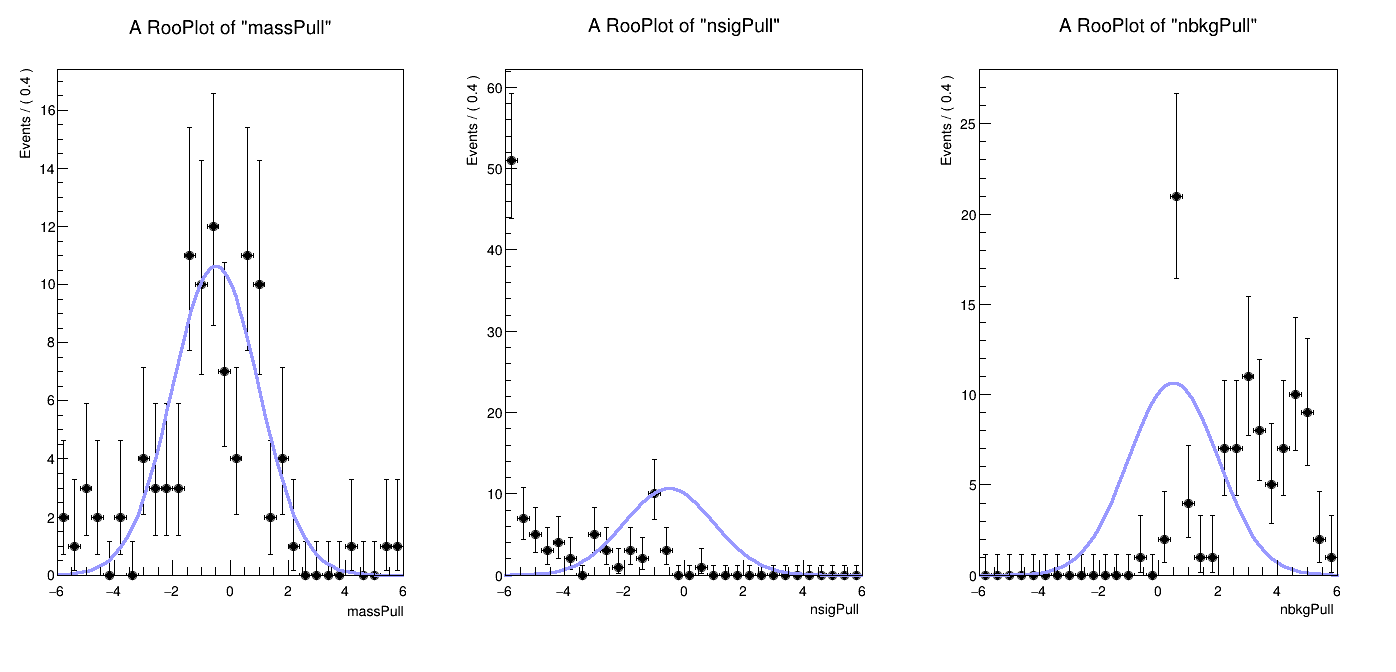
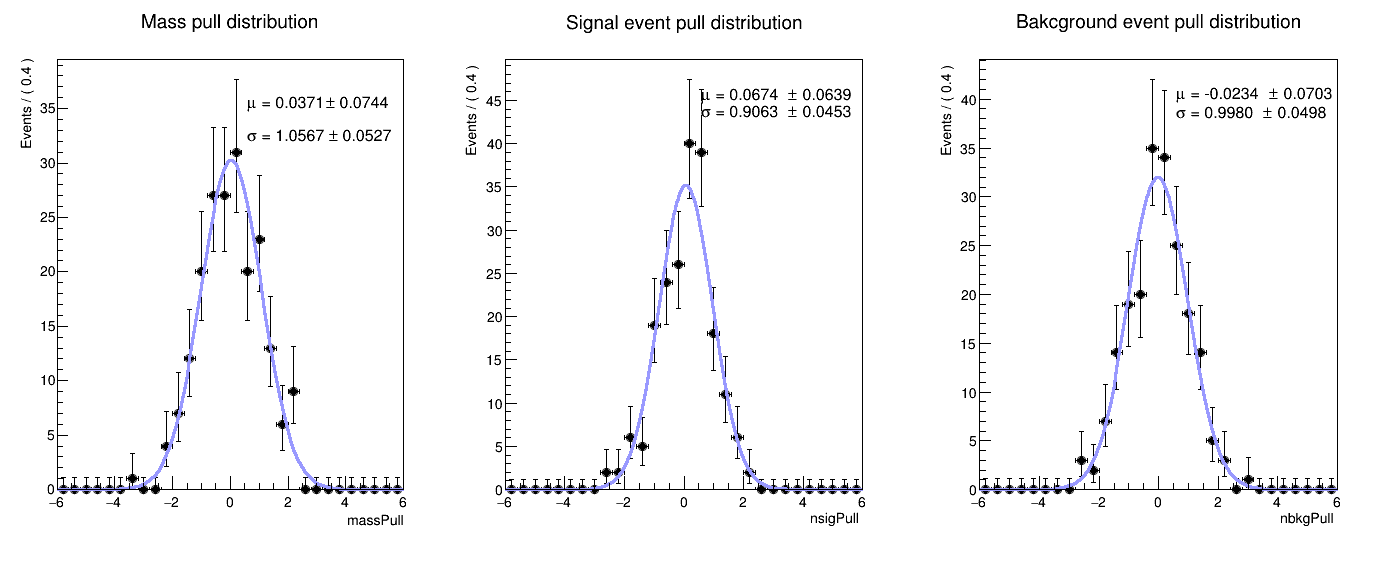
Pull

diff --git a/Documents/Parcial2/CC_1001010600/toyMonteCarlo.C b/Documents/Parcial2/CC_1001010600/toyMonteCarlo.C
@@ -9,7 +9,7 @@
 #include "TAxis.h"
 using namespace RooFit;
 void toyMonteCarlo(){
-    Float_t a0f, a1f, meanf, meanfErr, sigmaf, sigmafErr, nbkgf, nbkgfErr, nsigf, nsigfErr;
+    Float_t a0f, a0fErr, a1f, a1fErr, meanf, meanfErr, sigmaf, sigmafErr, nbkgf, nbkgfErr, nsigf, nsigfErr;
 
     ifstream entrada("fitData.txt");
     if(!entrada) 
@@ -17,25 +17,24 @@ void toyMonteCarlo(){
       cout << "No se pudo abrir el archivo entrada fit pr bins" << endl;
       exit( 1 );
     }
-    entrada >> a0f >> a1f >> meanf >> meanfErr >> sigmaf >> sigmafErr >> nbkgf >> nbkgfErr >> nsigf >> nsigfErr;
+    entrada >> a0f >> a0fErr >> a1f >> a1fErr >> meanf >> meanfErr >> sigmaf >> sigmafErr >> nbkgf >> nbkgfErr >> nsigf >> nsigfErr;
     entrada.close();
 
     RooRealVar m("m", "m", 6.05, 6.5);
 
     //Señal
-    RooRealVar mean("mean", "mean", 6.26, 6.28); mean.setVal(meanf);
-    RooRealVar sigma("sigma", "sigma", 0.005, 0.05); sigma.setVal(sigmaf); sigma.setError(sigmafErr);
+    RooRealVar mean("mean", "mean", 6.26, 6.28); 
+    RooRealVar sigma("sigma", "sigma", 0.005, 0.05); 
     RooGaussian sig("sig", "sig", m, mean, sigma);
 
     //Background
-    RooRealVar a0("a0", "a0", -1,1); a0.setVal(a0f);
-    RooRealVar a1("a1", "a1", -1,1); a1.setVal(a1f);
-
+    RooRealVar a0("a0", "a0", -1,1); 
+    RooRealVar a1("a1", "a1", -1,1); a1.setVal(a1f); 
     RooChebychev bkg("bkg", "bkg", m, RooArgList(a0, a1));
 
     //Numero de eventos
-    RooRealVar nsig("nsig","nsig", 400,800); nsig.setVal(nsigf); nsig.setError(nsigfErr);
-    RooRealVar nbkg("nbkg","nbkg", 400,800); nbkg.setVal(nbkgf); nbkg.setError(nbkgfErr);
+    RooRealVar nsig("nsig","nsig", 400,800); 
+    RooRealVar nbkg("nbkg","nbkg", 400,800); 
     
     //Pdf total
     RooAddPdf model("model","sig+bkg", RooArgList(sig,bkg), RooArgList(nsig,nbkg));
@@ -49,8 +48,16 @@ void toyMonteCarlo(){
     RooDataSet nsigDset("nsigPULL", "nsigPULL", RooArgSet(nsigPull));
     RooDataSet nbkgDset("nbkgPULL", "nbkgPULL", RooArgSet(nbkgPull));
 
-    for(int i=0; i<100; i++){
-      RooRandom::randomGenerator()->SetSeed(3);
+    RooRandom::randomGenerator()->SetSeed(84329746);
+    for(int i=0; i<200; i++){
+
+      mean.setVal(meanf); mean.setError(meanfErr);
+      sigma.setVal(sigmaf); sigma.setError(sigmafErr);
+      a0.setVal(a0f); a0.setError(a0fErr);
+      nsig.setVal(nsigf); nsig.setError(nsigfErr);
+      a1.setVal(a1f); a1.setError(a1fErr);
+      nbkg.setVal(nbkgf); nbkg.setError(nbkgfErr);
+      
       RooMsgService::instance().setGlobalKillBelow(RooFit::FATAL);
       RooMsgService::instance().setSilentMode(kTRUE);
       RooMsgService::instance().setStreamStatus(1,false);
@@ -76,46 +83,70 @@ void toyMonteCarlo(){
       nbkgDset.add(RooArgSet(nbkgPull));
     }
 
-    //Pull masa
+    //Fit Pull masa
     RooRealVar masPullMean("masPullMean", "masPullMean", 0, -.5, .5);
     RooRealVar massPullSigma("massPullSigma", "massPullSigma", 1, 0.5, 1.5);
     RooGaussian massPullGauss("massPullGauss", "massPullGauss", massPull, masPullMean, massPullSigma);
     massPullGauss.fitTo(mpDset, Extended(kTRUE), Save(kTRUE));
 
-    //Pull nsignal
+    //Fit Pull nsignal
     RooRealVar sigPullMean("sigPullMean", "sigPullMean", 0, -.5, .5);
     RooRealVar sigPullSigma("sigPullSigma", "sigPullSigma", 1, 0.5, 1.5);
     RooGaussian sigPullGauss("sigPullGauss", "sigPullGauss", nsigPull, sigPullMean, sigPullSigma);
     sigPullGauss.fitTo(nsigDset, Extended(kTRUE), Save(kTRUE));
 
-    //Pull nsignal
+    //Fit Pull nsignal
     RooRealVar bkgPullMean("bkgPullMean", "bkgPullMean", 0, -.5, .5);
     RooRealVar bkgPullSigma("bkgPullSigma", "bkgPullSigma", 1, 0.5, 1.5);
     RooGaussian bkgPullGauss("bkgPullGauss", "bkgPullGauss", nbkgPull, bkgPullMean, bkgPullSigma);
     bkgPullGauss.fitTo(nbkgDset, Extended(kTRUE), Save(kTRUE));
 
-    TCanvas* c2 = new TCanvas("c2", "c2", 1400, 700);
+    TCanvas* c2 = new TCanvas("c2", "c2", 1400, 600);
     TPad *pad1 = new TPad("p1", "", 0.01,0.05,0.32, 0.99); pad1->Draw();
     TPad *pad2 = new TPad("p2", "", 0.33,0.05,0.65, 0.99); pad2->Draw();
     TPad *pad3 = new TPad("p3", "", 0.67,0.05,0.99, 0.99); pad3->Draw();
 
     pad1->cd();
+    
     RooPlot* mframe2 = massPull.frame(-6, 6, 30);
     mpDset.plotOn(mframe2);
     massPullGauss.plotOn(mframe2, LineColor(kBlue-9));
+    
+    mframe2->SetTitle("Mass pull distribution");
     mframe2->Draw();
+
+    auto mtext = new TLatex();
+    mtext->SetTextSize(0.04);
+    mtext->SetTextFont(42);
+    mtext->DrawLatex(0.6, 35,Form("#mu = %1.4f #pm %1.4f", masPullMean.getVal(), masPullMean.getError()));
+    mtext->DrawLatex(0.6, 32,Form("#sigma = %1.4f #pm %1.4f", massPullSigma.getVal(), massPullSigma.getError()));
 
     pad2->cd();
     RooPlot* sframe = nsigPull.frame(-6, 6, 30);
     nsigDset.plotOn(sframe);
     sigPullGauss.plotOn(sframe, LineColor(kBlue-9));
+    sframe->SetTitle("Signal event pull distribution");
     sframe->Draw();
+
+    auto stext = new TLatex();
+    stext->SetTextSize(0.04);
+    stext->SetTextFont(42);
+    stext->DrawLatex(0.6, 45,Form("#mu = %1.4f #pm %1.4f", sigPullMean.getVal(), sigPullMean.getError()));
+    stext->DrawLatex(0.6, 43,Form("#sigma = %1.4f #pm %1.4f", sigPullSigma.getVal(), sigPullSigma.getError()));
 
     pad3->cd();
     RooPlot* bframe = nbkgPull.frame(-6, 6, 30);
     nbkgDset.plotOn(bframe);
     bkgPullGauss.plotOn(bframe, LineColor(kBlue-9));
+    bframe->SetTitle("Bakcground event pull distribution");
     bframe->Draw();
+
+    auto btext = new TLatex();
+    btext->SetTextSize(0.04);
+    btext->SetTextFont(42);
+    btext->DrawLatex(0.6, 40,Form("#mu = %1.4f #pm %1.4f", bkgPullMean.getVal(), bkgPullMean.getError()));
+    btext->DrawLatex(0.6, 38,Form("#sigma = %1.4f #pm %1.4f", bkgPullSigma.getVal(), bkgPullSigma.getError()));
+
 
     c2->Draw();
     c2->SaveAs("./plots/monteCarlo.png");

diff --git a/Documents/Parcial2/CC_1001010600/fitData.C b/Documents/Parcial2/CC_1001010600/fitData.C
@@ -124,7 +124,7 @@ void fitData(){
 
     //Guardar fit
     ofstream salida("fitData.txt");
-    salida << a0.getVal() << " " << a1.getVal() << " " << mean1.getVal() << " " << mean1.getError() <<
+    salida << a0.getVal() << a0.getError() << " " << a1.getVal() << " " << a1.getError() << " " << mean1.getVal() << " " << mean1.getError() <<
     " " << sigma1.getVal() << " " << sigma1.getError() << " " << nbkg.getVal() << " " << nbkg.getError() << 
     " " << nsig.getVal() << " " << nsig.getError();
     salida.close();
